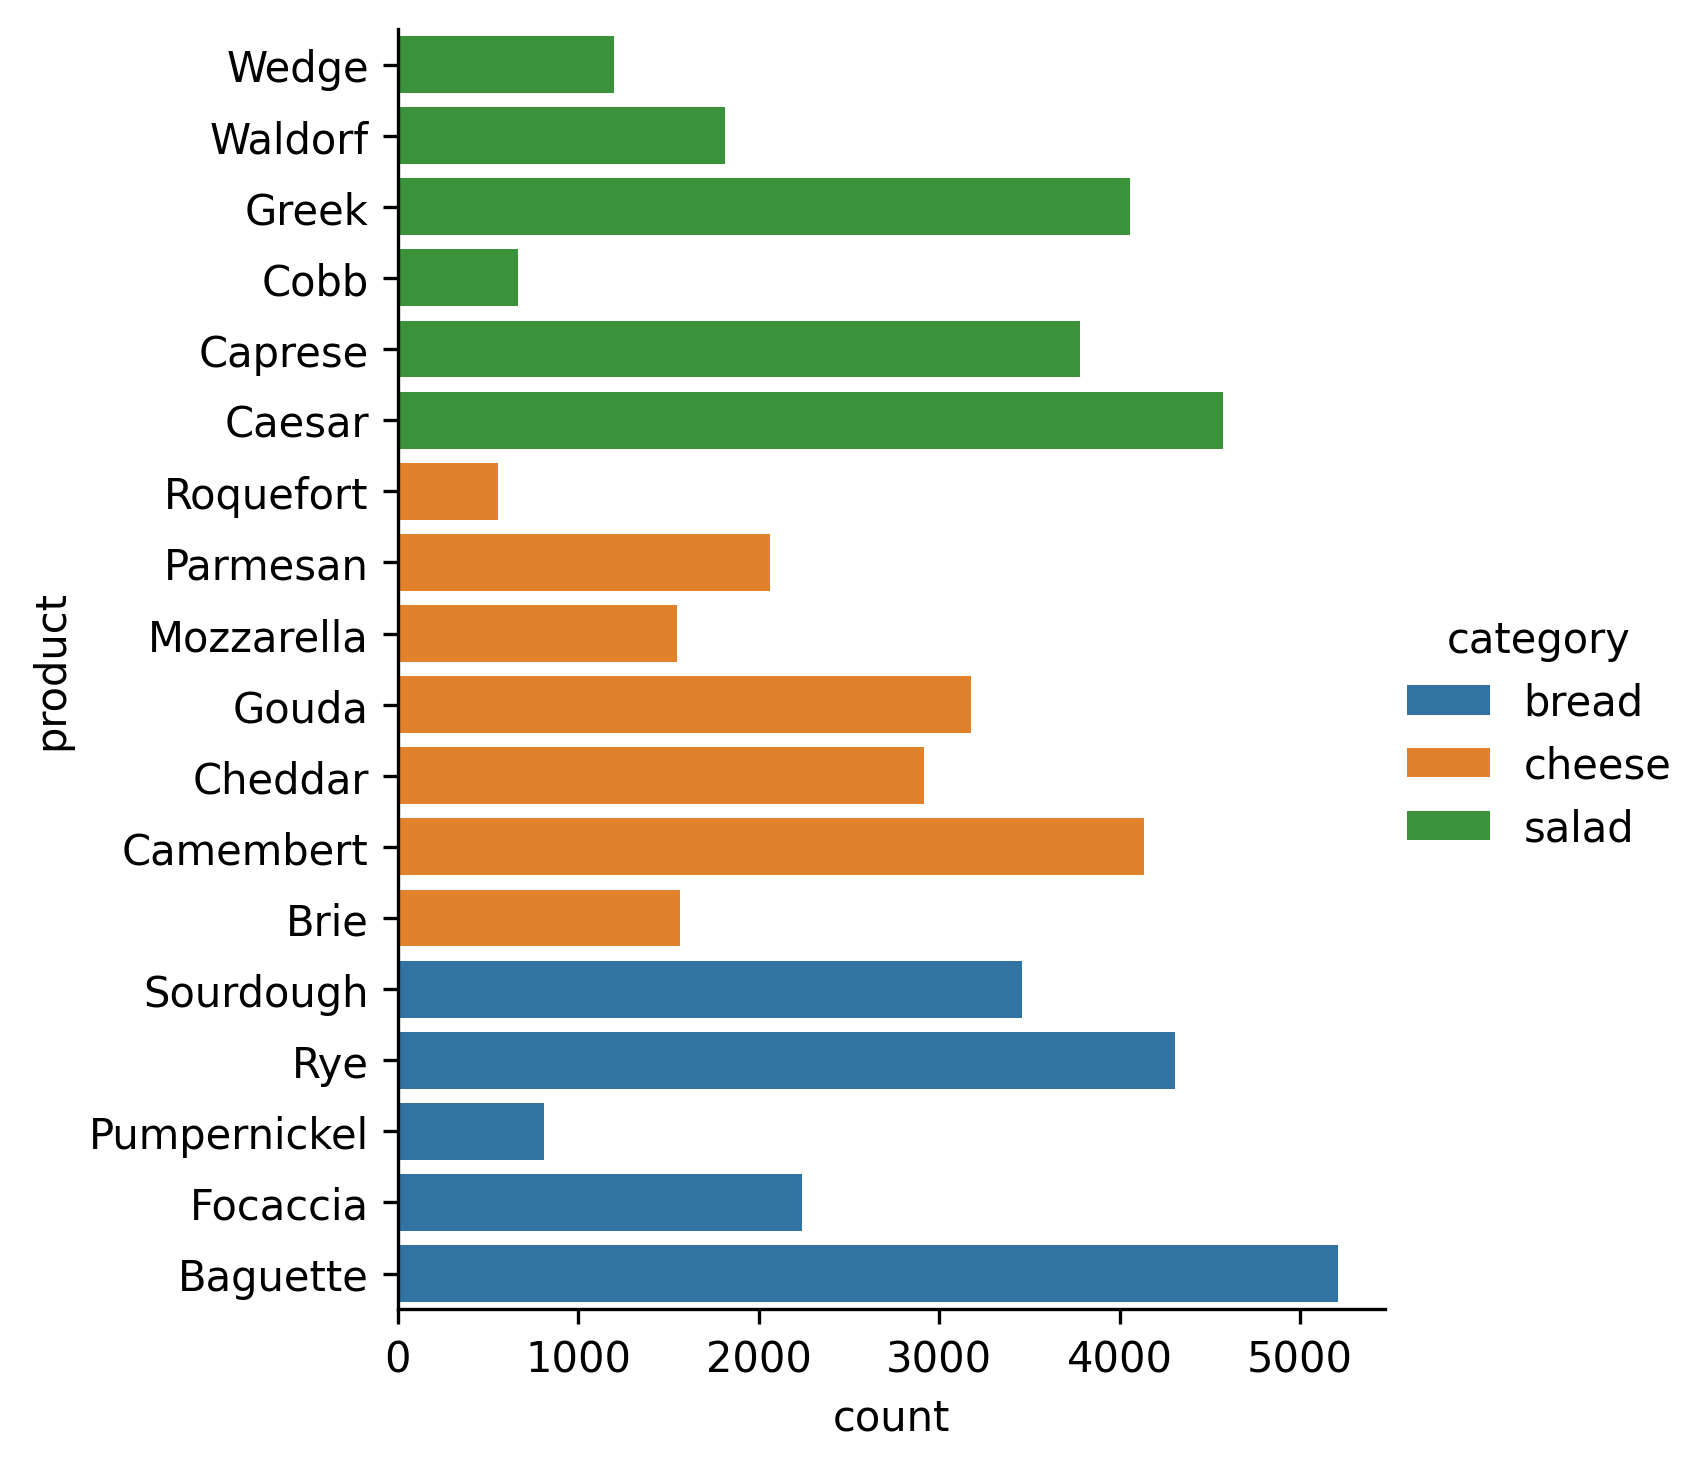
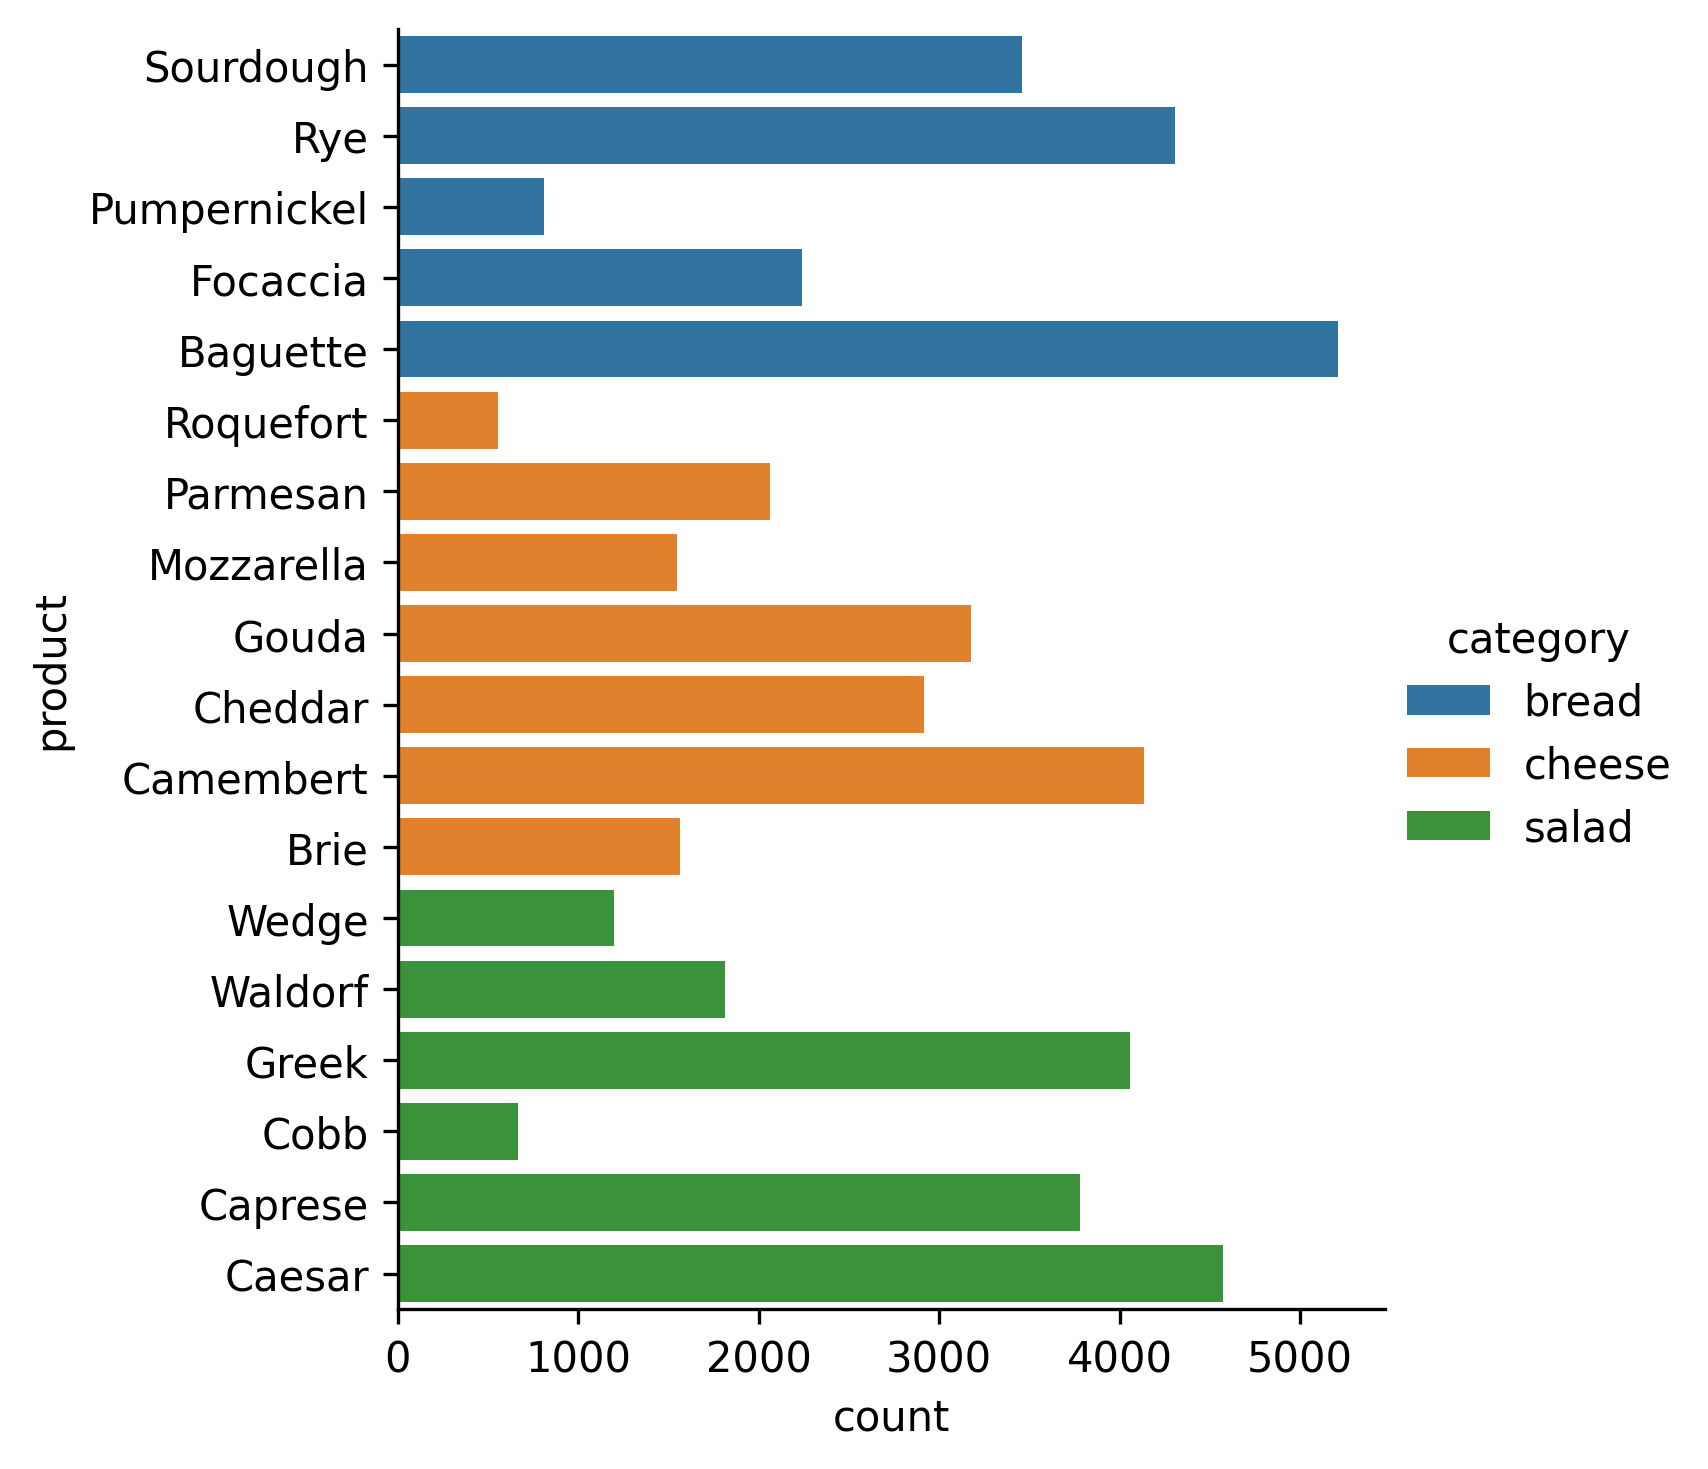
fix: left the order of categories in seaborn practice as it was

Changed region(s): [[0.0621, 0.0, 0.8068, 0.8884], [0.0931, 0.4289, 0.2172, 0.4901]]

diff --git a/2_1_bar_and_pie_charts_seaborn/2_practice/1_base/data.py b/2_1_bar_and_pie_charts_seaborn/2_practice/1_base/data.py
@@ -14,8 +14,7 @@ def get_product_order(data: pd.DataFrame) -> List:
         data.drop_duplicates(subset=["category", "product"])
         .sort_values(
             by=["category", "product"],
-            ascending=[False, False],
-            kind="stable",
+            ascending=[True, False],
         )["product"]
         .to_list()
     )

diff --git a/2_1_bar_and_pie_charts_seaborn/2_practice/1_base/task.md b/2_1_bar_and_pie_charts_seaborn/2_practice/1_base/task.md
@@ -9,7 +9,7 @@ Let's help them!
 To interpret the data,
 the organizers want to see the distribution of votes for each category (`category`) in a single horizontal bar
 chart.
-So you should plot categories from top to bottom as follows: `salad`, `cheese`, and `bread`.
+So you should plot categories from top to bottom as follows: `bread`, `cheese`, and `salad`.
 
 The other requirements are:
 
